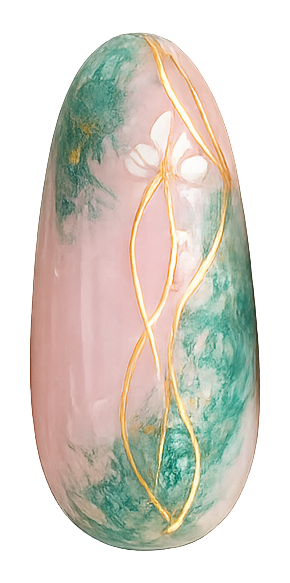
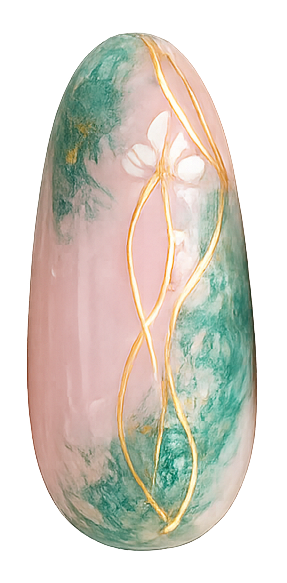
feat: defaults spotlight, debug ?debug-only, crop L des 3 ongles, scroll fade
3 changements groupés :

1. Defaults spotlight mis à jour (state.js + valeurs HTML range) :
   rayon 220→389px, ombre 55→85%, fluidité 4→7, netteté reste à 60%.
   C'est le réglage que tu as calé visuellement. Les nouveaux visiteurs
   y atterrissent directement, les visiteurs existants gardent leur
   localStorage (peuvent reset via le debug si actif).

2. Debug panel : maintenant caché par défaut (attr hidden sur l'<aside>),
   activé uniquement si l'URL contient ?debug. Plus de bouton 🎨 visible
   sur la version publique du site.

3. Crop +3px à gauche sur nail-set-01-3.png, 4.png, 6.png pour retirer
   un dernier résidu visuel sur le bord gauche. PNG passent de 290 à
   287 px de large (impact display ~1%, négligeable).

4. Spot fade pendant le scroll (nouvelle fonctionnalité) :
   - sur window scroll → isScrolling=true, remove .is-active immédiat
   - 200ms après le dernier scroll event → isScrolling=false
   - on attend un mousemove explicite pour rallumer (et seulement si
     le curseur est dans #gallery ou #works)
   - guard ajoutée dans activate() qui return early si isScrolling

diff --git a/src/modules/spotlight.js b/src/modules/spotlight.js
@@ -68,6 +68,15 @@ const hoverState = {
   rafId:           null,
 };
 
+/* État du scroll : on coupe le spotlight pendant que la page scrolle.
+   Après la fin du scroll, le spot ne revient QUE si la souris bouge
+   (évite de remettre la lumière en pleine face juste parce qu'on s'est
+   arrêté à un endroit avec le curseur). */
+const scrollState = {
+  isScrolling:    false,
+  scrollEndTimer: null,
+};
+
 /* ---------- API publique ---------- */
 export function applySpotlight(spotlightState) {
   if (!spotlightEl) spotlightEl = document.querySelector('.spotlight');
@@ -87,6 +96,32 @@ export function initSpotlight(state) {
   attachNailListeners();
   attachArrowListeners();
   attachPolaroidListeners();
+  attachScrollGuard();
+}
+
+/* Désactive le spot pendant le scroll, le réveille uniquement quand
+   la souris bouge après la fin du scroll (et que le curseur est en zone). */
+function attachScrollGuard() {
+  const SCROLL_END_DELAY = 200;
+
+  window.addEventListener('scroll', () => {
+    scrollState.isScrolling = true;
+    spotlightEl?.classList.remove('is-active');
+    clearTimeout(scrollState.scrollEndTimer);
+    scrollState.scrollEndTimer = setTimeout(() => {
+      scrollState.isScrolling = false;
+      /* Pas d'auto-reactivation : on attend un mousemove explicite. */
+    }, SCROLL_END_DELAY);
+  }, { passive: true });
+
+  /* Mouvement souris après scroll → on rallume si on est en zone. */
+  window.addEventListener('mousemove', () => {
+    if (scrollState.isScrolling) return;
+    if (!hoverState.inScope) return;
+    /* activate() est idempotent (classList.add d'une classe déjà présente
+       est un no-op) donc on peut l'appeler à chaque mousemove sans souci. */
+    activate();
+  }, { passive: true });
 }
 
 /* ---------- Init positions ---------- */
@@ -137,6 +172,9 @@ function reanchorLissajous(now) {
 
 /* ---------- Activation / désactivation ---------- */
 function activate() {
+  /* Si on scrolle, on n'active pas — le scroll est censé éteindre le spot.
+     L'activation effective viendra du mousemove après la fin du scroll. */
+  if (scrollState.isScrolling) return;
   clearTimeout(hoverState.deactivateTimer);
   hoverState.deactivateTimer = null;
   spotlightEl?.classList.add('is-active');

diff --git a/index.html b/index.html
@@ -368,8 +368,8 @@
     </div>
   </footer>
 
-  <!-- ============== DEBUG PANEL ============== -->
-  <aside id="debug-panel" class="debug" aria-label="Panneau de debug">
+  <!-- ============== DEBUG PANEL (caché sauf si ?debug dans l'URL) ============== -->
+  <aside id="debug-panel" class="debug" aria-label="Panneau de debug" hidden>
     <button id="debug-toggle" class="debug__toggle" aria-expanded="false" title="Tester les couleurs">
       <span>🎨</span>
     </button>
@@ -415,13 +415,13 @@
       </label>
       <div class="debug__row debug__row--slider">
         <label>Rayon</label>
-        <input type="range" id="spot-radius" min="100" max="500" value="220" />
-        <code id="spot-radius-val">220px</code>
+        <input type="range" id="spot-radius" min="100" max="500" value="389" />
+        <code id="spot-radius-val">389px</code>
       </div>
       <div class="debug__row debug__row--slider">
         <label>Ombre</label>
-        <input type="range" id="spot-shadow" min="0" max="85" value="55" />
-        <code id="spot-shadow-val">55%</code>
+        <input type="range" id="spot-shadow" min="0" max="85" value="85" />
+        <code id="spot-shadow-val">85%</code>
       </div>
       <div class="debug__row debug__row--slider">
         <label>Netteté</label>
@@ -430,8 +430,8 @@
       </div>
       <div class="debug__row debug__row--slider">
         <label>Fluidité</label>
-        <input type="range" id="spot-smoothness" min="1" max="15" value="4" />
-        <code id="spot-smoothness-val">4</code>
+        <input type="range" id="spot-smoothness" min="1" max="15" value="7" />
+        <code id="spot-smoothness-val">7</code>
       </div>
 
       <hr />

diff --git a/src/utils/state.js b/src/utils/state.js
@@ -15,10 +15,10 @@ export const STATE_DEFAULTS = Object.freeze({
   },
   spotlight: {
     enabled:    true,
-    radius:     220,  // px (base utilisée par les 2 spots avec un sizeMult)
-    shadow:     55,   // % (opacité du noir périphérique)
+    radius:     389,  // px (base utilisée par les 2 spots avec un sizeMult)
+    shadow:     85,   // % (opacité du noir périphérique)
     sharpness:  60,   // % (0 = très flou, 100 = très net)
-    smoothness: 4,    // /100 = lerp speed par frame
+    smoothness: 7,    // /100 = lerp speed par frame
   },
   /* Nom du thème actif. Propage data-theme sur <html> et permet aux
      CSS de scoper des patterns décoratifs à un thème spécifique. */

diff --git a/src/main.js b/src/main.js
@@ -32,7 +32,13 @@ initInauguration();
    les listeners du spotlight les voient. */
 initCarousels();
 initReviews();              // fire-and-forget : pas de hover handlers à attacher
-initDebugPanel(state);
+
+/* Debug panel : opt-in via ?debug dans l'URL. Le bouton 🎨 n'apparaît
+   donc pas sur la version publique. */
+if (new URLSearchParams(window.location.search).has('debug')) {
+  document.getElementById('debug-panel')?.removeAttribute('hidden');
+  initDebugPanel(state);
+}
 
 /* On attend que les polaroids dynamiques soient rendus avant le spotlight,
    sinon attachPolaroidListeners() les rate. Top-level await OK en module ES. */
